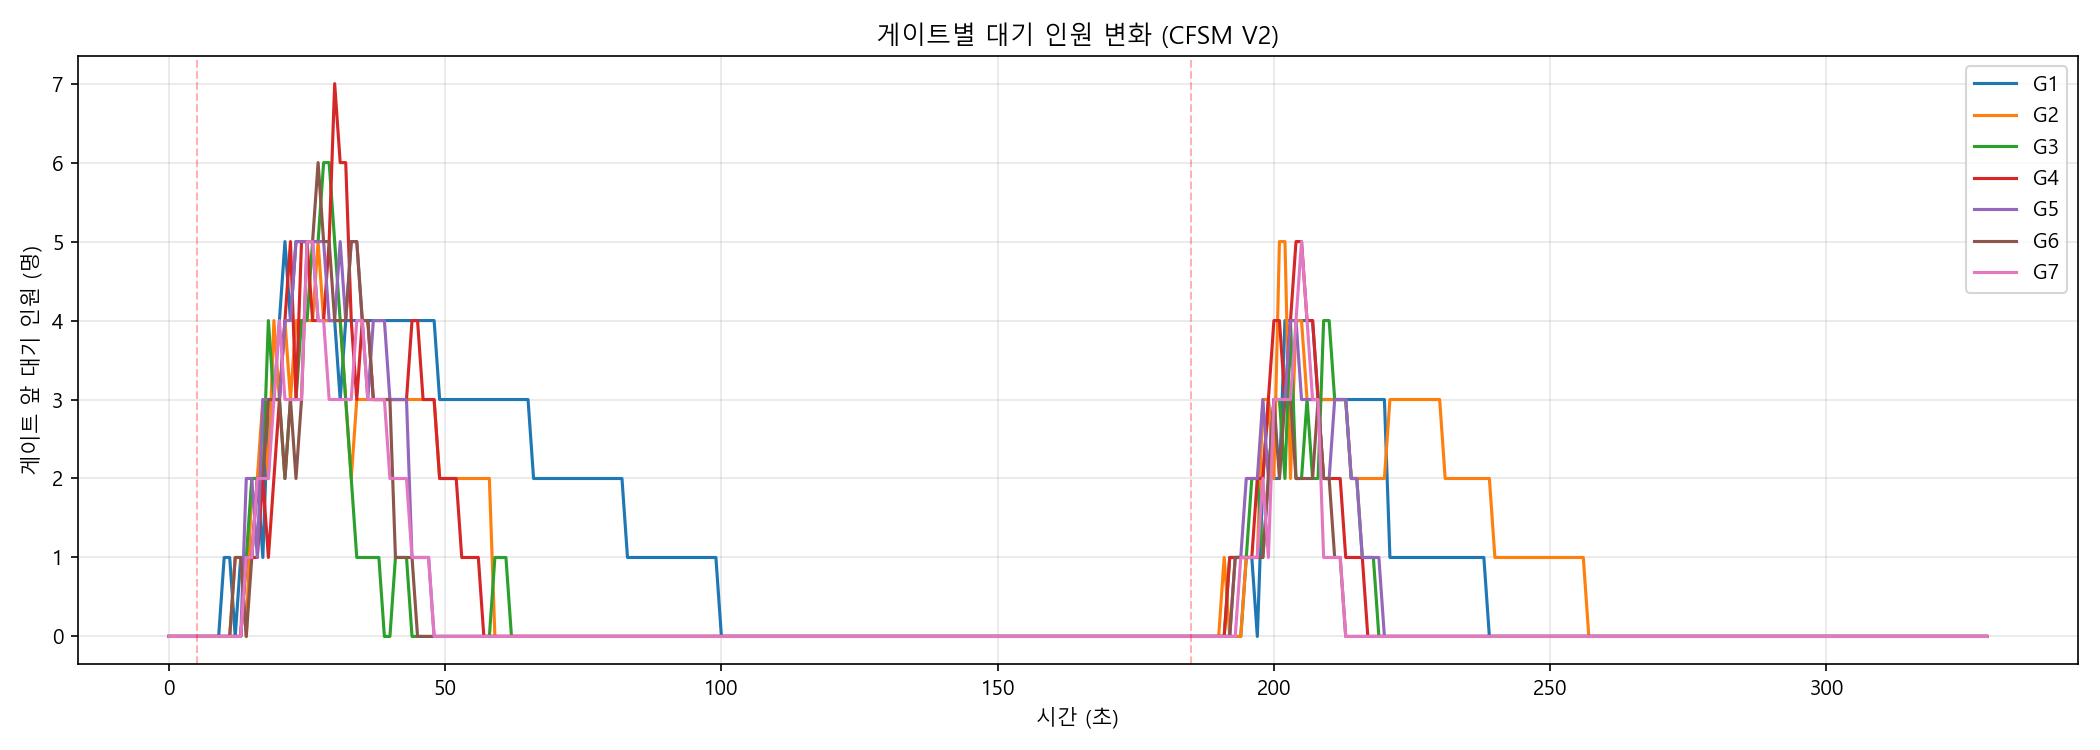
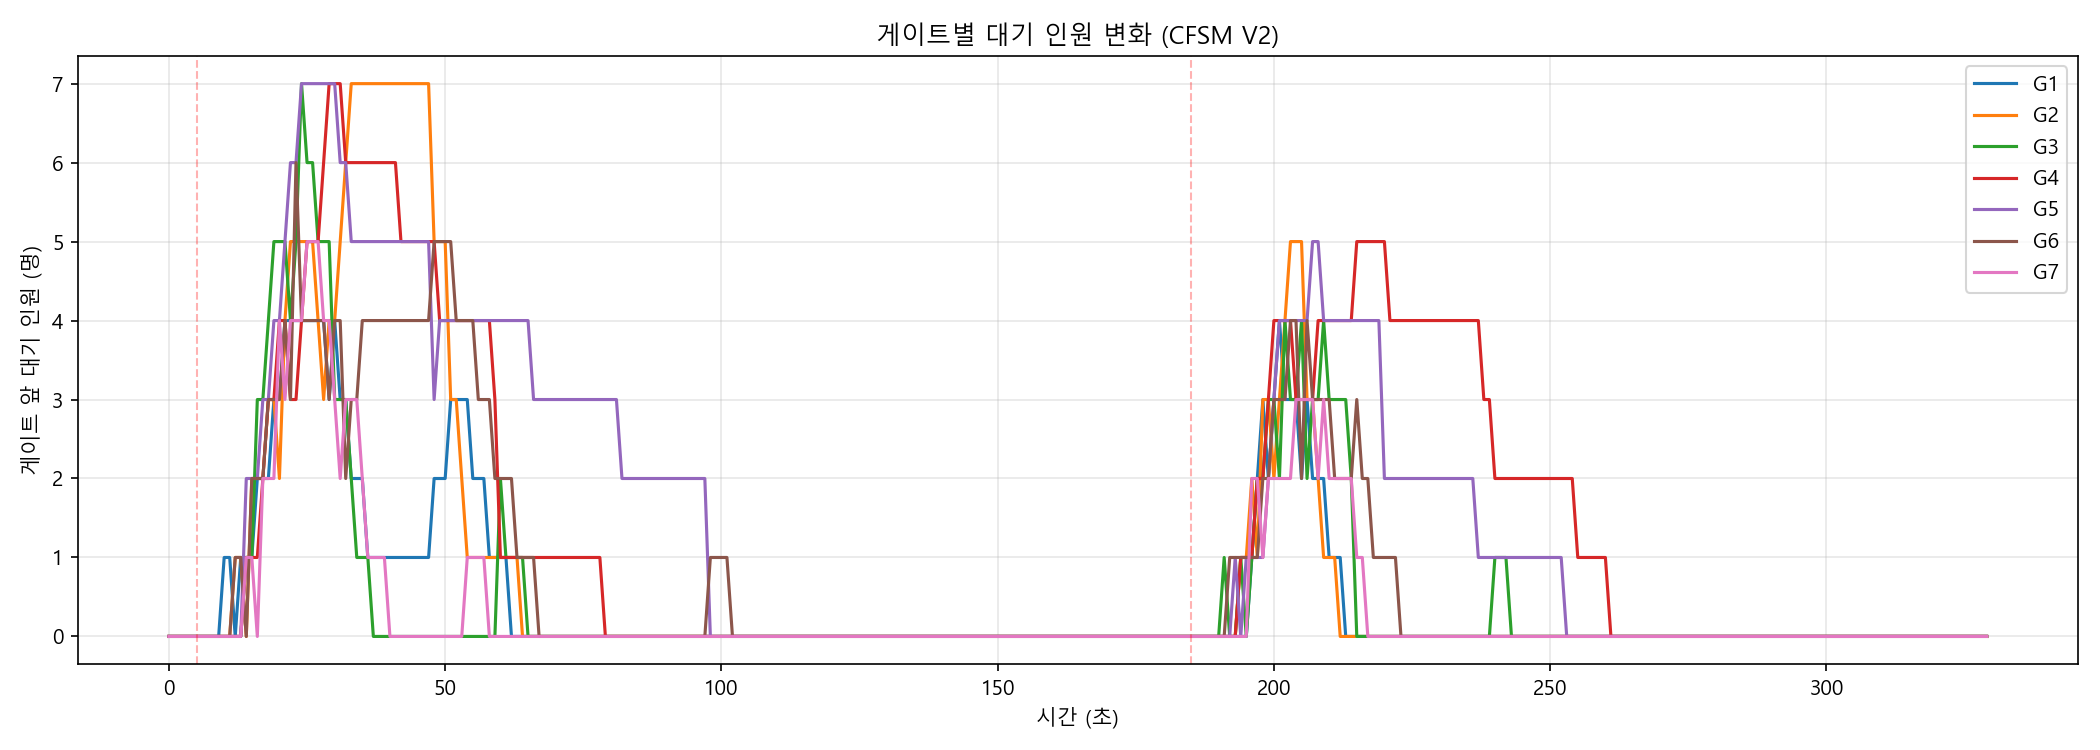
통로 폭 1.2m→0.70m: 게이트 간 벽(0.15m) 유지
- 1.2m은 게이트 간격(0.85m)보다 넓어서 벽이 사라지는 문제
- 0.70m: 에이전트(직경 0.30m) 통과 가능 + 벽 0.15m 유지
- 77/77 통과, 대기열 피크 7명

Changed region(s): [[0.0929, 0.092, 0.3714, 0.8587], [0.5571, 0.3067, 0.7738, 0.8587]]

diff --git a/simulation/run_west_simulation_cfsm.py b/simulation/run_west_simulation_cfsm.py
@@ -291,7 +291,7 @@ def create_simulation():
     # - 물리적 벽: 게이트 사이를 막아서 우회 불가
     # - 넓은 통로(1.2m): CFSM 에이전트가 자유롭게 통과 (낑김 없음)
     # - 실제 처리량: 서비스 시간 모델이 제어 (물리적 폭이 아님)
-    SIM_PASSAGE_WIDTH = 1.2  # 시뮬레이션용 통로 폭 (실제 0.55m → 1.2m)
+    SIM_PASSAGE_WIDTH = 0.70  # 시뮬레이션용 통로 폭 (실제 0.55m → 0.70m, 벽 0.15m 유지)
     walkable, _, _ = build_geometry(gates, include_barrier=True,
                                     passage_width_override=SIM_PASSAGE_WIDTH)
     # 시각화용: 실제 폭(0.55m)으로 표시
